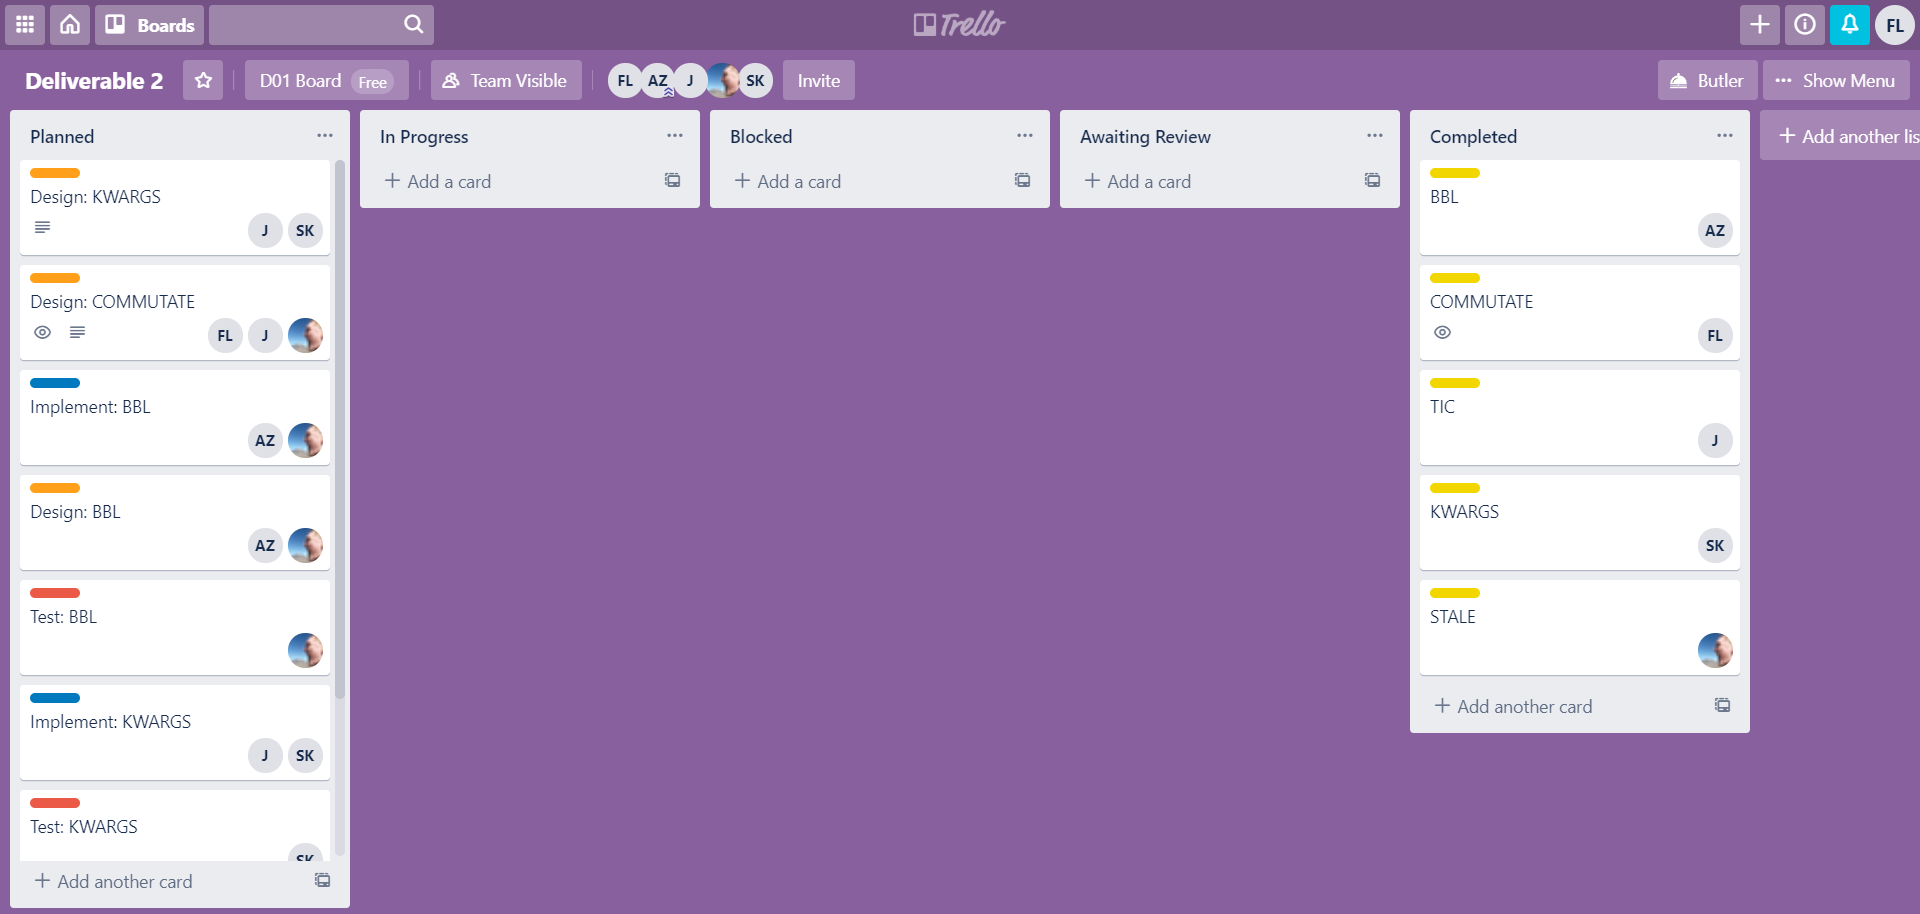
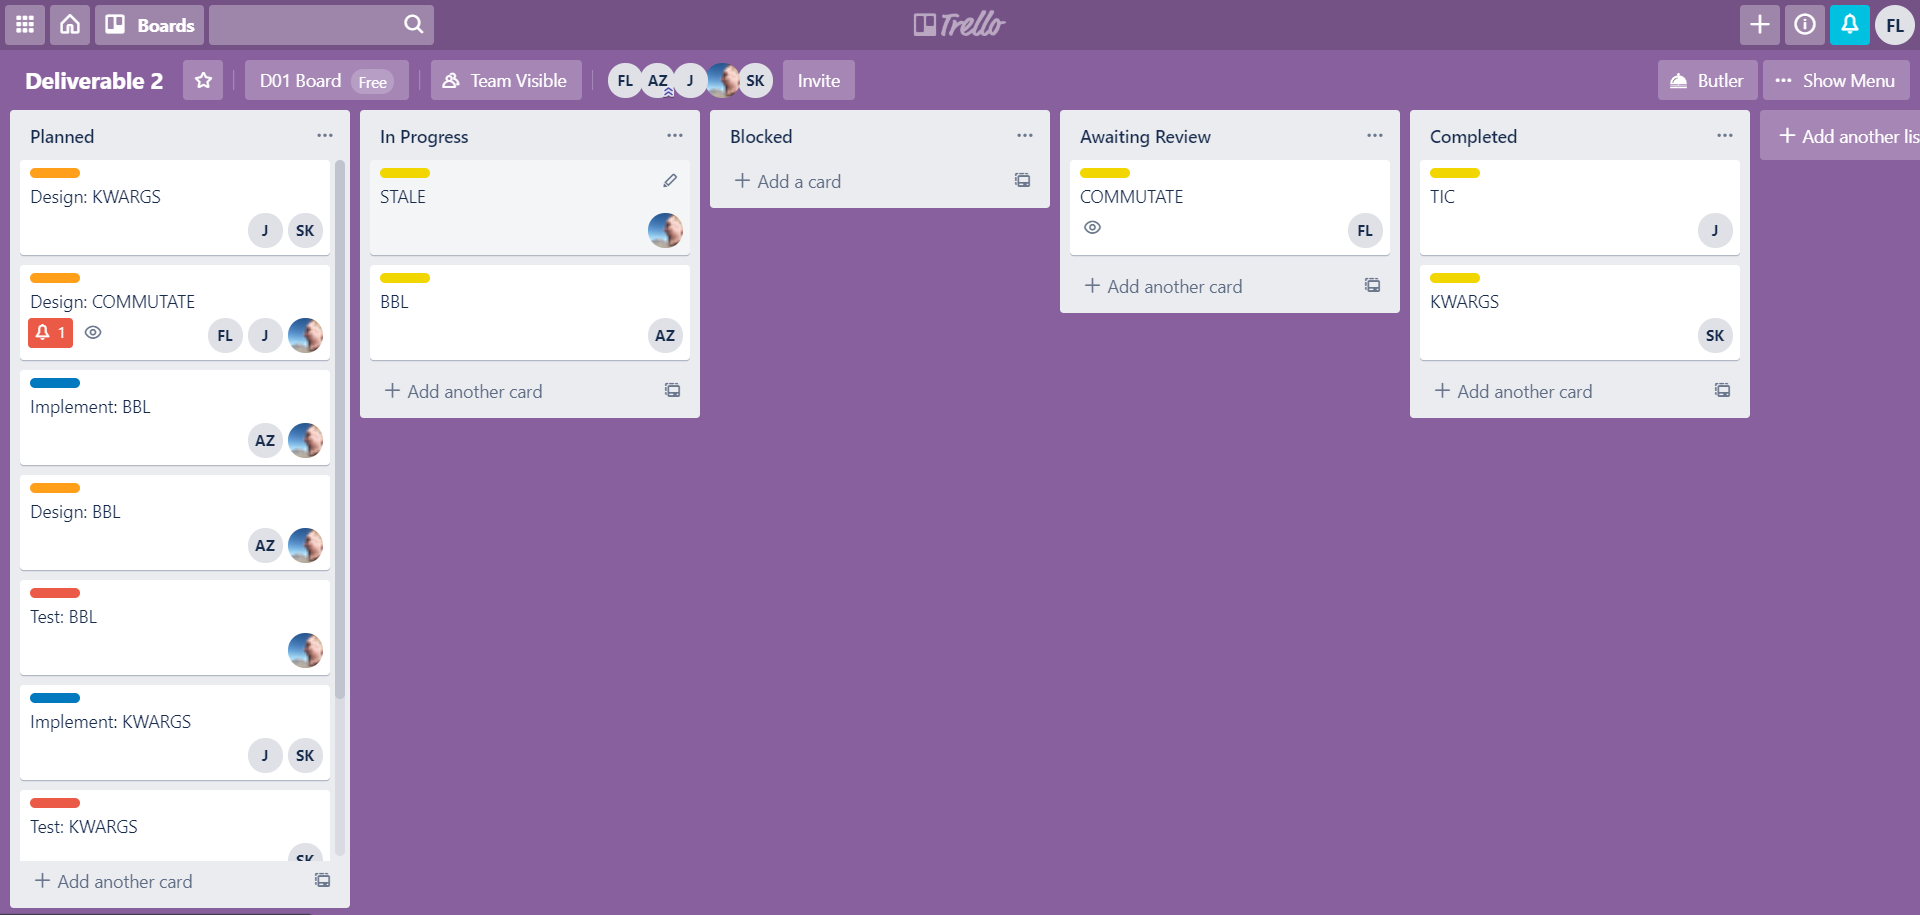
Updating process.md to reflect end of deliverable.

diff --git a/deliverable/2/process.md b/deliverable/2/process.md
@@ -24,11 +24,13 @@ We created a document for each of the issues, and provided details on:
 
 The commit marking the start of this phase was [7fe869e](https://github.com/CSCD01/team_04-project/commit/7fe869c7d89ca1cc3cbcf95151e8ca74a99be128). The state of the deliverable at the start of this phase can be found [here](https://github.com/CSCD01/team_04-project/blob/7fe869c7d89ca1cc3cbcf95151e8ca74a99be128/deliverable/2/deliverable_2.md).
 
-Here are a couple of snapshots of the Trello board throughout the **Requirements Gathering** phase.
+Here are some snapshots of the Trello board throughout the **Requirements Gathering** phase.
 
 ![trello 1](./img/trello_1.png)
 
 ![trello 2](./img/trello_2.png)
+
+![trello 3](./img/trello_3.png)
 
 The commit marking the end of this phase was [9d4f753](https://github.com/CSCD01/team_04-project/commit/9d4f753ae68fccf4b8d25e74b44930421aac1f58). The state of the deliverable at the end of this phase can be found [here](https://github.com/CSCD01/team_04-project/blob/9d4f753ae68fccf4b8d25e74b44930421aac1f58/deliverable/2/deliverable_2.md).
 
@@ -38,11 +40,15 @@ During the Design phase, we discuss multiple (if necessary) ways to implement th
 
 The commit marking the start of this phase was [8f999e5](https://github.com/CSCD01/team_04-project/commit/8f999e548c28e2efda64e1e895e8bdd0e45922df). The state of the deliverable at the start of this phase can be found [here](https://github.com/CSCD01/team_04-project/blob/8f999e548c28e2efda64e1e895e8bdd0e45922df/deliverable/2/deliverable_2.md).
 
-Here are a couple of snapshots of the Trello board throughout the **Design** phase.
-
-![trello 3](./img/trello_3.png)
+Here are some snapshots of the Trello board throughout the **Design** phase.
 
 ![trello 4](./img/trello_4.png)
+
+![trello 5](./img/trello_5.png)
+
+![trello 6](./img/trello_6.png)
+
+![trello 7](./img/trello_7.png)
 
 The commit marking the end of this phase was [54f9584](https://github.com/CSCD01/team_04-project/commit/54f9584e87e5d26ae96956e88217467546200da4). The state of the deliverable at the end of this phase can be found [here](https://github.com/CSCD01/team_04-project/blob/54f9584e87e5d26ae96956e88217467546200da4/deliverable/2/deliverable_2.md).
 
@@ -52,22 +58,46 @@ During the Test Development phase, we developed both **unit tests** and **accept
 
 The commit marking the start of this phase was [bdcd00a](https://github.com/CSCD01/team_04-project/commit/bdcd00a7caf835cbfc310204ccca27559c2944ca). The state of the deliverable at the start of this phase can be found [here](https://github.com/CSCD01/team_04-project/blob/bdcd00a7caf835cbfc310204ccca27559c2944ca/deliverable/2/deliverable_2.md).
 
-Here are a couple of snapshots of the Trello board throughout the **Test Development** phase.
+Here are some snapshots of the Trello board throughout the **Test Development** phase.
 
-![trello 5](./img/trello_5.png)
+![trello 8](./img/trello_8.png)
 
-![trello 6](./img/trello_6.png)
+![trello 9](./img/trello_9.png)
+
+![trello 10](./img/trello_10.png)
 
 The commit marking the end of this phase was [c1a7758](https://github.com/CSCD01/team_04-project/commit/c1a77587efa5771e30e01d1e355b157f031e303b). The state of the deliverable at the end of this phase can be found [here](https://github.com/CSCD01/team_04-project/blob/c1a77587efa5771e30e01d1e355b157f031e303b/deliverable/2/deliverable_2.md).
 
 ## Implementation
 
-During the Implementation phase, we implement changes to the source code on the respective issue branches in our forked repository, and validate those changes with the tests that we have created during the **Test Development** phase. After this phase, the unit test(s) and acceptance tests pass. After a sucessful peer review, the individual issue branches are merged the `master` branch of our forked repository.
+During the Implementation phase, we implement changes to the source code on the respective issue branches in our forked repository, and validate those changes with the tests that we have created during the **Test Development** phase. After this phase, the unit test(s) and acceptance tests pass. 
+
+We created pull requests for each of these issues, which can be found [here](https://github.com/CSCD01-team04/matplotlib/pulls?q=is%3Apr+is%3Aclosed). After a sucessful peer review, the individual issue branches were merged to `master` of our forked repository. We marked the implementation of those issues as completed.
 
 The commit marking the start of this phase was [2b97b3b](https://github.com/CSCD01/team_04-project/commit/2b97b3b71b0b56d3e5e3679ae2fc2448570ba88b). The state of the deliverable at the start of this phase can be found [here](https://github.com/CSCD01/team_04-project/blob/2b97b3b71b0b56d3e5e3679ae2fc2448570ba88b/deliverable/2/deliverable_2.md).
 
-Here are a couple of snapshots of the Trello board throughout the **Implementation** phase.
+Here are some snapshots of the Trello board throughout the **Implementation** phase.
 
-![trello 7](./img/trello_7.png)
+![trello 11](./img/trello_11.png)
 
-The commit marking the end of this phase was [to-do](). The state of the deliverable at the end of this phase can be found [here]().
+![trello 12](./img/trello_12.png)
+
+![trello 13](./img/trello_13.png)
+
+During this phase, after the implementation of the fix for issue 1460, we realized that we missed an important acceptance test case for it. After discovering the missing acceptance test, we went back to the **Testing** phase just for issue 1460, and created another acceptance test. 
+
+![trello 12](./img/trello_14.png)
+
+![trello 13](./img/trello_15.png)
+
+Afterwards, we checked the implementation once more and confirmed that the newly added tests pass.
+
+The commit marking the end of this phase was [cfc0c44](https://github.com/CSCD01/team_04-project/commit/cfc0c4451c0ec2f6bd2633124ab3a01b16587654). The state of the deliverable at the end of this phase can be found [here](https://github.com/CSCD01/team_04-project/blob/cfc0c4451c0ec2f6bd2633124ab3a01b16587654/deliverable/2/deliverable_2.md).
+
+## Reflections 
+
+We found that following this process was helpful because it made the process of implementation easier. Of course, the tradeoff was that **Requirements Gathering** and **Design** was rather intensive. It required that for each feature, we carefully note where the problem is in the code, and to think of a thoughtful design. 
+
+**Testing** also came before **Implementation**, which also allowed us to ensure that the original requirements were met, because the tests were created according to those requirements. This meant that after the **Implementation** phase, we had confidence in the correctness of the code.
+
+Overall, we thought that this process benefited our team for this deliverable.
